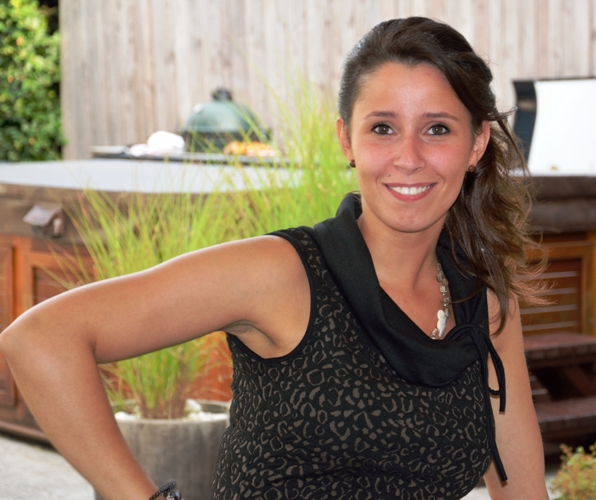
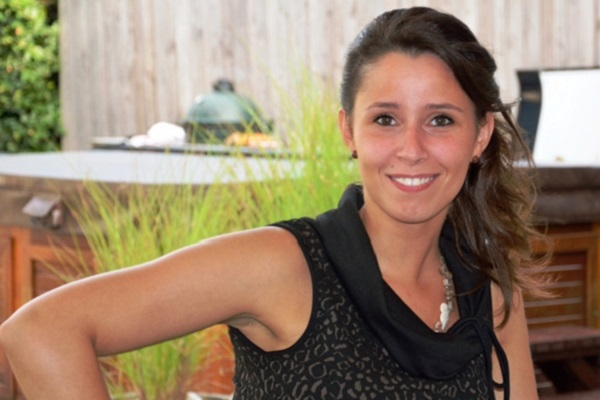
bktid: carousel meer bedoeld om foto's in te steken

diff --git a/bootstrap-nofm.html b/bootstrap-nofm.html
@@ -12,14 +12,14 @@
 
     <body >
 		<div class="container">
-			<div class="row justify-content-center mb-5 mt-5">
+			<div class="row justify-content-center mt-2 mb-5">
 				<div class="col-8 col-md-6">
 					<img class="img-fluid" src="images/logo.png">						
 				</div>
 			</div>
 
-			<div class="row mb-4">
-				<div class="col">
+			<div class="row justify-content-center mb-4">
+				<div class="col-8 col-md-6">
 						<div id="carouselExampleIndicators" class="carousel slide" data-ride="carousel">
 							<ol class="carousel-indicators">
 								<li data-target="#carouselExampleIndicators" data-slide-to="0" class="active"></li>
@@ -27,67 +27,18 @@
 							</ol>
 							<div class="carousel-inner">
 								<div class="carousel-item active">
-									<div class="stanisa_golden_block">
-										<div class="stanisa_golden_block_picture_container">
-												<img src="images/profile.jpg">
-										</div>
-										<p class="stanisa_first_p">
-											Hallo allemaal, mijn naam is Stanisa en ben vanaf mijn 23ste kapster en nagelstyliste. In Aarschot aan de Sima heb ik de opleiding haartooi gevolgd. Tijdens die schooltijd startte ik gelijktijdig een cursus in Nederland voor de gelnagels. Ondertussen heb ik nog meerdere aanvullende nagelopleidingen vervolmaakt. Ik combineer de twee omdat ik gepassioneerd ben in zowel de kapsels als de kunstnagels.
-										</p>
-										<p>
-											Voor mijn kapsalon geef ik de voorkeur aan de producten van Wella, die aangenaam in gebruik zijn omdat ze allemaal een geparfumeerde geur hebben. Bovendien blijven de kleuringen enorm lang met veel glans, die je extra uitstraling geeft. Als je vragen hebt over een bepaald kapsel of je weet echt niet wat je wil, dan geef ik je natuurlijk graag mijn advies.
-										</p>
-										<p>
-											Voor de nagelstyling werk ik met de producten van Qnb. Airbrush, daar kun je ook voor bij mij terecht. Het is een artistiek schilderijtje op je vingernagel! Heb je interesse voor kunstnagels en wil je graag een workshop volgen? Dat kan, voor meer info mag je mij altijd bellen of mailen.
-										</p>
-										<p>
-											Om op de hoogte te blijven van de nieuwe trends en nieuwste technieken doe ik regelmatig een bijscholing. Zo krijgen jullie een optimale behandeling.
-										</p>
-										<p>
-											Ik werk steeds op afspraak. Al mijn gegevens zijn vermeld onderaan deze pagina.
-										</p>
-										<p>
-											Groetjes,
-										</p>
-										<p>
-											Stanisa
-										</p>
-									</div>						
+									<img class="d-block w-100 rounded" src="images/profile.jpg">
+									<div class="carousel-caption d-none d-md-block">
+										<h3>About me</h3>
+										<p>Klik hier om</p>
+									</div>	
 								</div>
 								<div class="carousel-item">
-									<div class="stanisa_golden_block">
-										<h1 class="stanisa_centered_h">Realisaties</h1>
-										<div class="stanisa_realisatie_img_container">
-											<a href="realisaties/beeld1.jpg" data-lightbox="roadtrip">
-												<img src="realisaties/beeld1.jpg"/>
-											</a>
-										</div>
-										<div class="stanisa_realisatie_img_container">
-											<a href="realisaties/beeld2.jpg" data-lightbox="roadtrip">
-												<img src="realisaties/beeld2.jpg"/>
-											</a>
-										</div>
-										<div class="stanisa_realisatie_img_container">
-											<a href="realisaties/beeld1.jpg" data-lightbox="roadtrip">
-												<img src="realisaties/beeld1.jpg"/>
-											</a>
-										</div>
-										<div class="stanisa_realisatie_img_container">
-											<a href="realisaties/beeld2.jpg" data-lightbox="roadtrip">
-												<img src="realisaties/beeld2.jpg"/>
-											</a>
-										</div>
-										<div class="stanisa_realisatie_img_container">
-											<a href="realisaties/beeld1.jpg" data-lightbox="roadtrip">
-												<img src="realisaties/beeld1.jpg"/>
-											</a>
-										</div>
-										<div class="stanisa_realisatie_img_container">
-											<a href="realisaties/beeld2.jpg" data-lightbox="roadtrip">
-												<img src="realisaties/beeld2.jpg"/>
-											</a>
-										</div>
-									</div>
+									<img class="d-block w-100 rounded" src="images/realisatie.jpg">
+									<div class="carousel-caption d-none d-md-block">
+										<h3>Realisaties</h3>
+										<p>Klik hier om</p>
+									</div>	
 								</div>
 							</div>
 						</div>

diff --git a/bootstrap.html b/bootstrap.html
@@ -15,14 +15,14 @@
     
     <body >
 		<div class="container">
-			<div class="row justify-content-center mb-5 mt-5">
+			<div class="row justify-content-center mt-2 mb-5">
 				<div class="col-8 col-md-6">
 					<img class="img-fluid" src="{{ site.baseurl }}/images/logo.png">						
 				</div>
 			</div>
 
-			<div class="row mb-4">
-				<div class="col">
+			<div class="row justify-content-center mb-4">
+				<div class="col-8 col-md-6">
 					<div id="carouselExampleIndicators" class="carousel slide" data-ride="carousel">
 						<ol class="carousel-indicators">
 							<li data-target="#carouselExampleIndicators" data-slide-to="0" class="active"></li>
@@ -30,46 +30,18 @@
 						</ol>
 						<div class="carousel-inner">
 							<div class="carousel-item active">
-								<div class="stanisa_golden_block">
-									<div class="stanisa_golden_block_picture_container">
-										<img src="{{ site.baseurl }}/images/profile.jpg">
-									</div>
-									<p class="stanisa_first_p">
-										Hallo allemaal, mijn naam is Stanisa en ben vanaf mijn 23ste kapster en nagelstyliste. In Aarschot aan de Sima heb ik de opleiding haartooi gevolgd. Tijdens die schooltijd startte ik gelijktijdig een cursus in Nederland voor de gelnagels. Ondertussen heb ik nog meerdere aanvullende nagelopleidingen vervolmaakt. Ik combineer de twee omdat ik gepassioneerd ben in zowel de kapsels als de kunstnagels.
-									</p>
-									<p>
-										Voor mijn kapsalon geef ik de voorkeur aan de producten van Wella, die aangenaam in gebruik zijn omdat ze allemaal een geparfumeerde geur hebben. Bovendien blijven de kleuringen enorm lang met veel glans, die je extra uitstraling geeft. Als je vragen hebt over een bepaald kapsel of je weet echt niet wat je wil, dan geef ik je natuurlijk graag mijn advies.
-									</p>
-									<p>
-										Voor de nagelstyling werk ik met de producten van Qnb. Airbrush, daar kun je ook voor bij mij terecht. Het is een artistiek schilderijtje op je vingernagel! Heb je interesse voor kunstnagels en wil je graag een workshop volgen? Dat kan, voor meer info mag je mij altijd bellen of mailen.
-									</p>
-									<p>
-										Om op de hoogte te blijven van de nieuwe trends en nieuwste technieken doe ik regelmatig een bijscholing. Zo krijgen jullie een optimale behandeling.
-									</p>
-									<p>
-										Ik werk steeds op afspraak. Al mijn gegevens zijn vermeld onderaan deze pagina.
-									</p>
-									<p>
-										Groetjes,
-									</p>
-									<p>
-										Stanisa
-									</p>
-								</div>						
+								<img class="d-block w-100 rounded" src="{{ site.baseurl }}/images/profile.jpg">
+								<div class="carousel-caption d-none d-md-block">
+									<h3>About me</h3>
+									<p>Klik hier om</p>
+								</div>	
 							</div>
 							<div class="carousel-item">
-								<div class="stanisa_golden_block">
-									<h1 class="stanisa_centered_h">Realisaties</h1>
-									{% for realisatie in site.static_files %}
-										{% if realisatie.path contains 'realisaties' %}
-											<div class="stanisa_realisatie_img_container">
-												<a href="{{ site.baseurl }}{{ realisatie.path }}" data-lightbox="roadtrip">
-													<img src="{{ site.baseurl }}{{ realisatie.path }}"/>
-												</a>
-											</div>
-										{% endif %}
-									{% endfor %}
-								</div>
+								<img class="d-block w-100 rounded" src="{{ site.baseurl }}/images/realisatie.jpg">
+								<div class="carousel-caption d-none d-md-block">
+									<h3>Realisaties</h3>
+									<p>Klik hier om</p>
+								</div>	
 							</div>
 						</div>
 					</div>

diff --git a/TODO.md b/TODO.md
@@ -9,3 +9,6 @@
 
 ## bootstrap
 * media object ipv picture containers
+* carousel slides moeten zelfde hoogte hebben
+  * anders verschuift de lightbox
+  * anders verschilt de background image zoom
